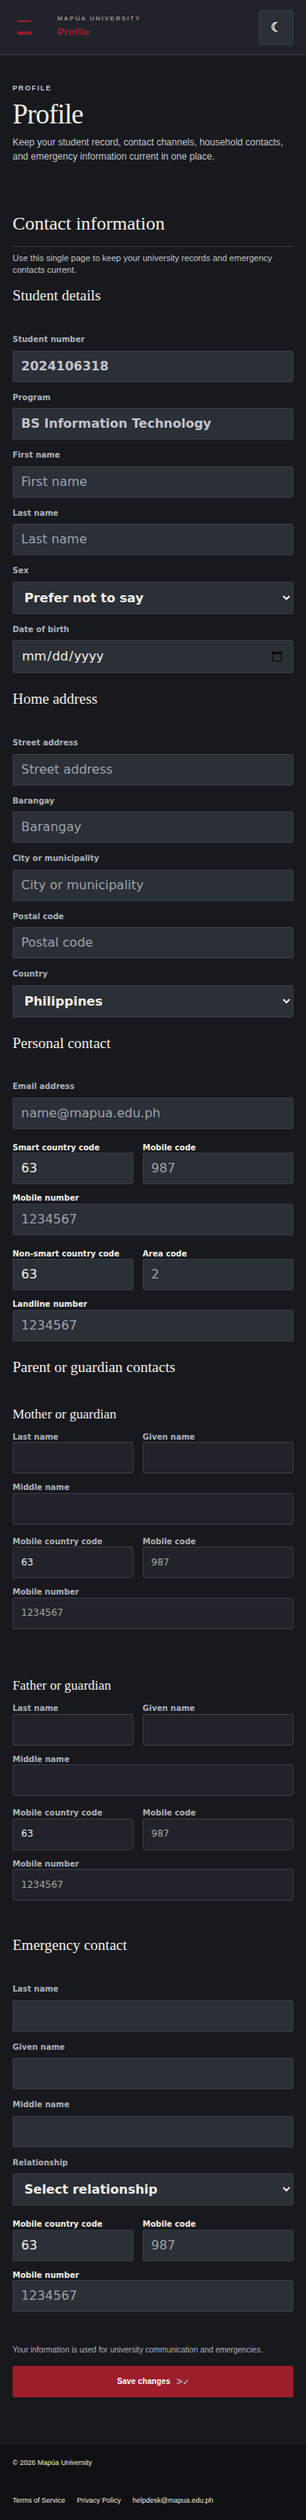
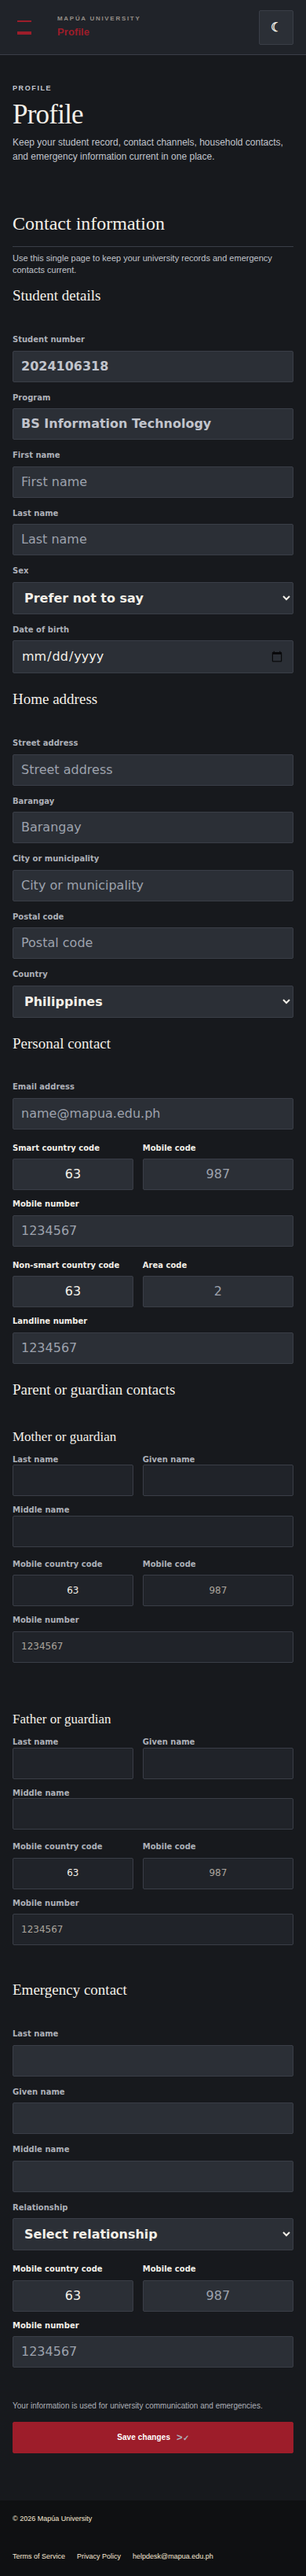
align fields with reference data

diff --git a/styles.css b/styles.css
@@ -1619,6 +1619,82 @@ html[data-theme="dark"] .content .announcement-item h3 {
 	}
 }
 
+/* Match the reference contact layout: balanced names and compact phone segments. */
+@media (min-width: 801px) {
+	.content .contact-form .name-grid {
+		grid-template-columns: repeat(3, minmax(0, 1fr)) !important;
+	}
+
+	.content .contact-form .phone-grid {
+		grid-template-columns: repeat(3, minmax(0, 1fr)) !important;
+	}
+}
+
+.content .contact-form .phone-grid input {
+	text-align: left;
+}
+
+.content .contact-form .phone-grid label {
+	display: flex;
+	flex-direction: column;
+	align-items: flex-start;
+	gap: 7px;
+}
+
+.content .contact-form .phone-grid label:first-child input,
+.content .contact-form .phone-grid label:nth-child(2) input {
+	text-align: center;
+}
+
+@media (min-width: 801px) {
+	.content .contact-form .phone-grid label:nth-child(1) input,
+	.content .contact-form .phone-grid label:nth-child(2) input {
+		max-width: 112px;
+	}
+
+	.content .contact-form .phone-grid label:nth-child(3) input {
+		max-width: 180px;
+	}
+}
+
+/* Keep reference-length academic and finance values readable without widening the page. */
+.content .table-card td,
+.content .table-card th,
+.content .soa-table td,
+.content .soa-table th,
+.content .curriculum-table td,
+.content .curriculum-table th {
+	overflow-wrap: anywhere;
+	word-break: normal;
+}
+
+.content .curriculum-table td:nth-child(8),
+.content .curriculum-table td:nth-child(9),
+.content .curriculum-table td:nth-child(10) {
+	white-space: normal;
+}
+
+.content .certificate-card > div,
+.content .assessment-number {
+	min-width: 0;
+}
+
+.content .certificate-card h2,
+.content .certificate-card p,
+.content .assessment-number strong {
+	overflow-wrap: anywhere;
+}
+
+@media (max-width: 800px) {
+	.content .certificate-card {
+		width: 100%;
+	}
+
+	.content .certificate-card h2 {
+		font-size: 20px;
+	}
+}
+
 /* Shared visual system: keep every route aligned after the legacy route layers. */
 :root {
 	--content-max: 1180px;

diff --git a/script.js b/script.js
@@ -187,9 +187,34 @@ function enhancePaymentLogos() {
   });
 }
 
+function applyReferenceFieldConstraints() {
+  const profileForm = document.querySelector('.contact-form');
+  if (!profileForm) return;
+  profileForm.querySelectorAll('label').forEach((label) => {
+    const fieldName = label.firstChild?.textContent?.trim().toLowerCase() || '';
+    const input = label.querySelector('input');
+    if (!input) return;
+    const maxLength = fieldName.includes('last name') || fieldName.includes('given name') || fieldName.includes('middle name')
+      ? 50
+      : fieldName.includes('country code') || fieldName.includes('area code')
+        ? 4
+        : fieldName.includes('mobile code')
+          ? 3
+          : fieldName.includes('mobile number')
+            ? 7
+            : fieldName.includes('landline number')
+              ? 9
+              : 0;
+    if (!maxLength) return;
+    input.maxLength = maxLength;
+    if (maxLength < 50) input.inputMode = 'numeric';
+  });
+}
+
 function showToast(message) { toast.textContent = message; toast.classList.add('show'); window.clearTimeout(showToast.timeout); showToast.timeout = window.setTimeout(() => toast.classList.remove('show'), 2600); }
 function bindActions() {
   enhancePaymentLogos();
+  applyReferenceFieldConstraints();
   document.querySelectorAll('[data-toast]').forEach((button) => button.addEventListener('click', () => showToast(button.dataset.toast)));
   const helpButton = document.querySelector('#helpButton');
   if (helpButton) helpButton.addEventListener('click', () => showToast('Help Center is coming right up.'));
